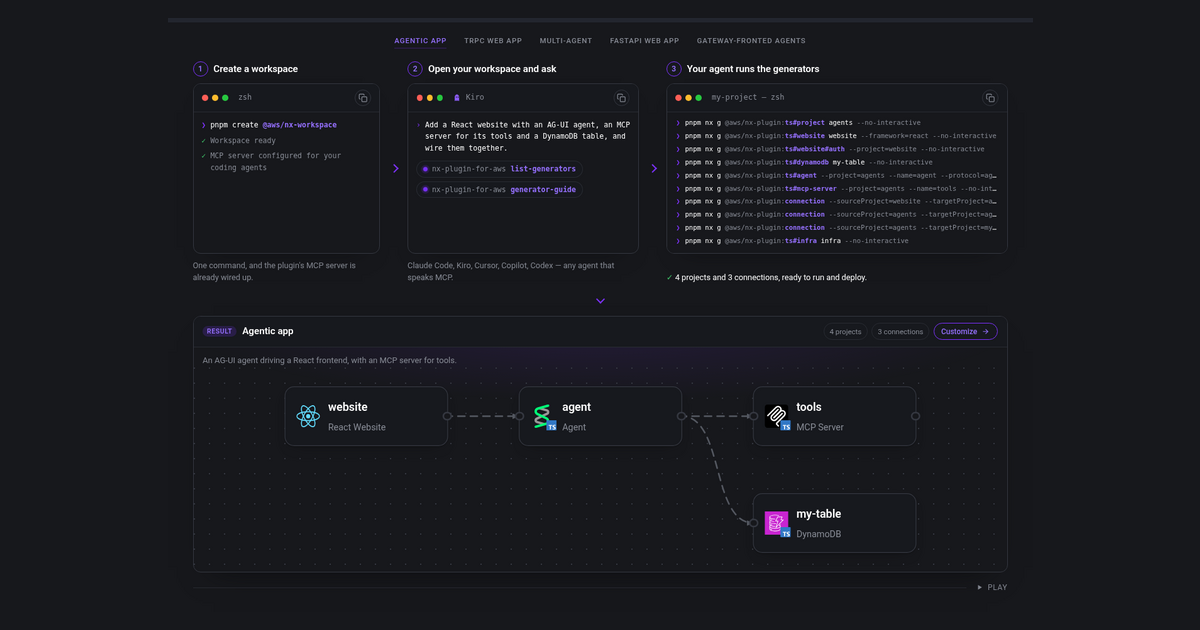
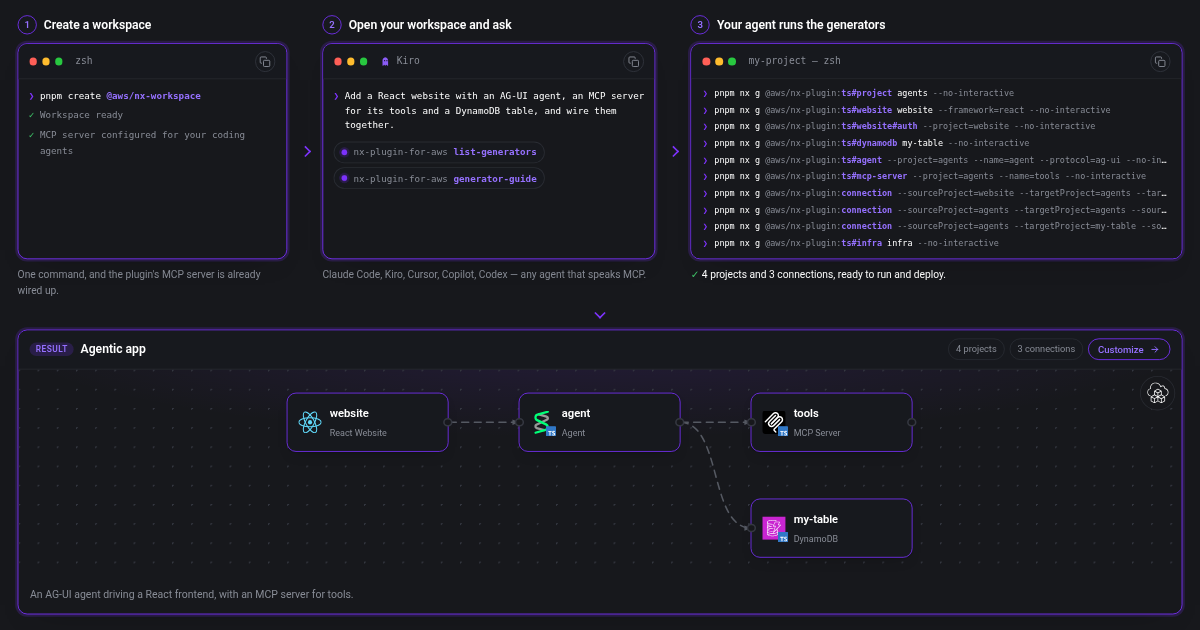
docs: switch the showcase between IaC providers, and retake the og image
The showcase alternates provider as it moves through the examples, and the mark
on the diagram switches it by hand — it says which provider it will switch to
when pointed at, and the commands and the copy-button script follow, so copying
after a switch hands over `--iac=<provider>` and that provider's infra
generator. The read-only diagrams keep naming their fixed provider.

The finished summary now starts on the same line as the other steps' notes,
rather than dropping to sit alone at the bottom, and the prompt window and the
empty command window both open on the same `❯` the other windows use.

The og image is retaken from the showcase: same 1200x630, but with the tabs and
the play bar left out, every window and node in the accent, and the boxes
expanded to fill the frame. Captured with agent-browser after installing the
Roboto the site's font stack asks for — the container had only DejaVu, which
rendered every previous capture in the wrong face.

diff --git a/docs/src/components/graph-builder/preset-showcase.tsx b/docs/src/components/graph-builder/preset-showcase.tsx
@@ -24,7 +24,7 @@ import {
   sourceAnchor,
   targetAnchor,
 } from './geometry';
-import { IacMark } from './iac-mark';
+import { type Iac, IacMark } from './iac-mark';
 import { NodeLogo } from './node-logo';
 import {
   buildPresetGraph,
@@ -54,30 +54,16 @@ const MAX_SCALE = 1.25;
 interface Stage {
   readonly preset: Preset;
   readonly graph: Graph;
-  /**
-   * The commands the assistant is shown running. The workspace-create is left
-   * off: the first step of the flow already did that.
-   */
-  readonly lines: readonly ScriptLine[];
-  /** The whole script, workspace and all, for the copy button. */
-  readonly script: string;
   /** The diagram's natural size, before it is scaled to the panel. */
   readonly width: number;
   readonly height: number;
 }
 
 /**
- * Lay a preset out from its authored grid, and emit the commands that build it
- * with the same emitter the builder and the docs pages use — so what the homepage
- * shows being run is what the plugin runs.
+ * Lay a preset out from its authored grid. The commands it scaffolds with are
+ * emitted separately, since they depend on the IaC provider in play.
  */
 const toStage = (preset: Preset): Stage => {
-  const options: EmitOptions = {
-    workspace: 'my-project',
-    packageManager: 'pnpm',
-    iac: 'cdk',
-    overrides: preset.overrides,
-  };
   const built = buildPresetGraph(preset);
   const nodes = built.nodes.map((node, index) => ({
     ...node,
@@ -88,8 +74,6 @@ const toStage = (preset: Preset): Stage => {
   return {
     preset,
     graph,
-    lines: toScriptLines(graph, options, { skipWorkspace: true }),
-    script: toScript(graph, options),
     width: Math.max(...nodes.map((node) => node.x + NODE_WIDTH)) + PADDING,
     height: Math.max(...nodes.map((node) => node.y + NODE_HEIGHT)) + PADDING,
   };
@@ -132,6 +116,8 @@ export const PresetShowcase = ({ builderHref }: Props) => {
   const [isOnScreen, setIsOnScreen] = useState(false);
   const [reduceMotion, setReduceMotion] = useState(false);
   const [focus, setFocus] = useState<CommandFocus | undefined>();
+  /** Set by the mark on the diagram, overriding the example's own provider. */
+  const [iacOverride, setIacOverride] = useState<Iac | undefined>();
   const tabsId = useId();
   const rootRef = useRef<HTMLDivElement>(null);
   const tabsRef = useRef<HTMLDivElement>(null);
@@ -140,6 +126,23 @@ export const PresetShowcase = ({ builderHref }: Props) => {
   const preset = stage.preset;
   const phase = FLOW_PHASES[phaseIndex].id;
   const prompt = preset.prompt ?? preset.description;
+  // Examples alternate provider as the showcase moves through them, so both are
+  // shown without the reader having to ask; the mark on the diagram overrides it.
+  const iac: Iac = iacOverride ?? (index % 2 === 0 ? 'cdk' : 'terraform');
+  const { lines, script } = useMemo(() => {
+    const options: EmitOptions = {
+      workspace: 'my-project',
+      packageManager: 'pnpm',
+      iac,
+      overrides: stage.preset.overrides,
+    };
+    return {
+      // The workspace-create is left off the shown commands: the first step of
+      // the flow already did that. The copy button hands over the whole script.
+      lines: toScriptLines(stage.graph, options, { skipWorkspace: true }),
+      script: toScript(stage.graph, options),
+    };
+  }, [stage, iac]);
   // How long each step of this example holds. Memoised, since the step timer
   // restarts whenever it changes and typing re-renders many times a second.
   const durations = useMemo(
@@ -166,6 +169,7 @@ export const PresetShowcase = ({ builderHref }: Props) => {
     setPhaseIndex(isHeld ? LAST_PHASE : 0);
     setPass((current) => current + 1);
     setFocus(undefined);
+    setIacOverride(undefined);
   };
 
   /**
@@ -201,6 +205,7 @@ export const PresetShowcase = ({ builderHref }: Props) => {
       setPhaseIndex(0);
       setPass((current) => current + 1);
       setFocus(undefined);
+      setIacOverride(undefined);
     }, durations[phaseIndex]);
     return () => clearTimeout(timer);
   }, [
@@ -313,7 +318,7 @@ export const PresetShowcase = ({ builderHref }: Props) => {
       ?.focus();
   };
 
-  const { graph, lines } = stage;
+  const { graph } = stage;
 
   // Nothing is asked or run until those steps come round, then the commands and
   // the diagram fill in together. Derived rather than reset, so starting an
@@ -441,7 +446,7 @@ export const PresetShowcase = ({ builderHref }: Props) => {
             typed={typedPrompt}
             lines={lines}
             revealed={revealedLines}
-            script={stage.script}
+            script={script}
             summary={summary}
             focus={focus}
             onFocus={setFocus}
@@ -627,7 +632,7 @@ export const PresetShowcase = ({ builderHref }: Props) => {
                 })}
               </div>
             </div>
-            <IacMark iac="cdk" />
+            <IacMark iac={iac} onSwitch={setIacOverride} />
           </div>
 
           <p className="ps-panel-description">{preset.description}</p>

diff --git a/docs/src/components/graph-builder/iac-mark.tsx b/docs/src/components/graph-builder/iac-mark.tsx
@@ -14,34 +14,51 @@ export type Iac = 'cdk' | 'terraform';
  * reads on both themes; the AWS CDK product icon ships as Squid Ink plus a white
  * variant for dark backgrounds.
  */
-const BRANDS: Record<Iac, { label: string; light: string; dark?: string }> = {
+const BRANDS: Record<
+  Iac,
+  { name: string; label: string; light: string; dark?: string }
+> = {
   cdk: {
+    name: 'CDK',
     label: 'CDK Infrastructure',
     light: cdkLogo.src,
     dark: cdkLogoDark.src,
   },
-  terraform: { label: 'Terraform Infrastructure', light: terraformLogo.src },
+  terraform: {
+    name: 'Terraform',
+    label: 'Terraform Infrastructure',
+    light: terraformLogo.src,
+  },
 };
+
+const other = (iac: Iac): Iac => (iac === 'cdk' ? 'terraform' : 'cdk');
 
 interface Props {
   iac: Iac;
+  /**
+   * Given, the mark becomes a button that switches to the other provider, and
+   * says so when pointed at. Left off, it just names the provider in use.
+   */
+  onSwitch?: (next: Iac) => void;
 }
 
 /**
  * Marks which IaC provider a diagram's commands scaffold, for the corner of a
- * read-only diagram. Pointing at it slides the provider's name out of the
- * icon's left side.
+ * diagram. Pointing at it slides the wording out of the icon's left side.
  */
-export const IacMark = ({ iac }: Props) => {
+export const IacMark = ({ iac, onSwitch }: Props) => {
   const brand = BRANDS[iac];
-  return (
-    <span
-      className={`gb-iac-mark${brand.dark ? ' gb-iac-mark--has-dark' : ''}`}
-      role="img"
-      aria-label={`Scaffolds ${brand.label}`}
-    >
+  const text = onSwitch
+    ? `Click to switch to ${BRANDS[other(iac)].name}`
+    : brand.label;
+  const className = `gb-iac-mark${brand.dark ? ' gb-iac-mark--has-dark' : ''}${
+    onSwitch ? ' gb-iac-mark--button' : ''
+  }`;
+
+  const content = (
+    <>
       <span className="gb-iac-mark-label" aria-hidden="true">
-        {brand.label}
+        {text}
       </span>
       <span className="gb-iac-mark-icon">
         <img
@@ -61,6 +78,25 @@ export const IacMark = ({ iac }: Props) => {
           />
         )}
       </span>
+    </>
+  );
+
+  if (onSwitch) {
+    return (
+      <button
+        type="button"
+        className={className}
+        aria-label={text}
+        onClick={() => onSwitch(other(iac))}
+      >
+        {content}
+      </button>
+    );
+  }
+
+  return (
+    <span className={className} role="img" aria-label={brand.label}>
+      {content}
     </span>
   );
 };

diff --git a/docs/src/styles/graph-builder.css b/docs/src/styles/graph-builder.css
@@ -920,6 +920,27 @@
   overflow: hidden;
 }
 
+/* Switchable, so it reads as something to press. */
+.gb-iac-mark--button {
+  padding: 0;
+  font: inherit;
+  color: inherit;
+  cursor: pointer;
+  transition:
+    border-color 200ms ease,
+    box-shadow 200ms ease;
+}
+
+.gb-iac-mark--button:hover,
+.gb-iac-mark--button:focus-visible {
+  border-color: var(--gb-accent);
+  box-shadow: 0 0 0 3px var(--gb-accent-soft);
+}
+
+.gb-iac-mark--button:hover .gb-iac-mark-label {
+  color: var(--gb-text);
+}
+
 .gb-iac-mark-label {
   max-width: 0;
   padding-left: 0;
@@ -934,8 +955,9 @@
     opacity 160ms ease;
 }
 
-.gb-iac-mark:hover .gb-iac-mark-label {
-  max-width: 12rem;
+.gb-iac-mark:hover .gb-iac-mark-label,
+.gb-iac-mark:focus-visible .gb-iac-mark-label {
+  max-width: 14rem;
   padding-left: 0.7rem;
   opacity: 1;
 }
@@ -2305,8 +2327,12 @@
 }
 
 .af-step-note {
-  /* Pinned to the bottom, so the notes line up across steps of unequal height. */
+  /* Pinned to the bottom, so the notes line up across steps of unequal height,
+   * and holding two lines whether or not it needs them — so a one-line note
+   * (the finished summary) starts on the same line as the others rather than
+   * dropping to sit alone at the bottom. */
   margin: auto 0 0;
+  min-height: 2.4rem;
   font-size: 0.8rem;
   line-height: 1.5;
   color: var(--gb-muted);

diff --git a/docs/src/components/graph-builder/flow-steps.tsx b/docs/src/components/graph-builder/flow-steps.tsx
@@ -184,7 +184,7 @@ export const FlowSteps = ({
 
             <div className="af-body af-body--chat">
               <p className="af-prompt">
-                <span className="gb-prompt">›</span>
+                <span className="gb-prompt">❯</span>
                 <span>
                   {prompt.slice(0, typed)}
                   {!isTyped && <span className="af-caret" />}
@@ -231,7 +231,8 @@ export const FlowSteps = ({
 
             <div className="af-body af-body--commands">
               {shown.length === 0 ? (
-                <p className="af-line af-line--output">
+                <p className="af-line">
+                  <span className="gb-prompt">❯</span>
                   <span className="af-caret" />
                 </p>
               ) : (
